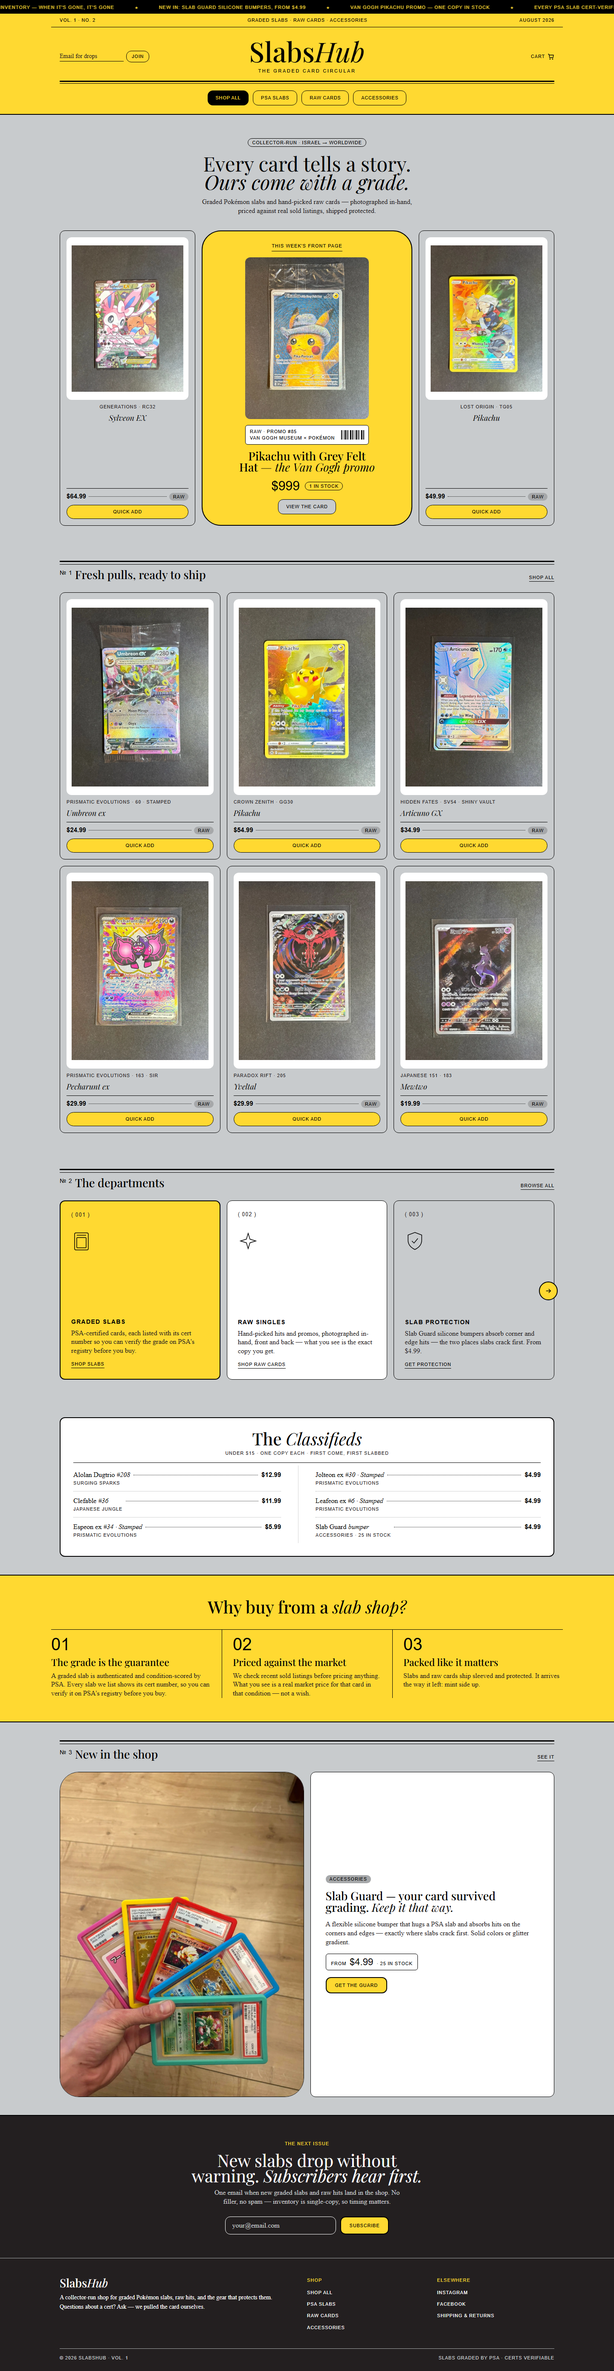
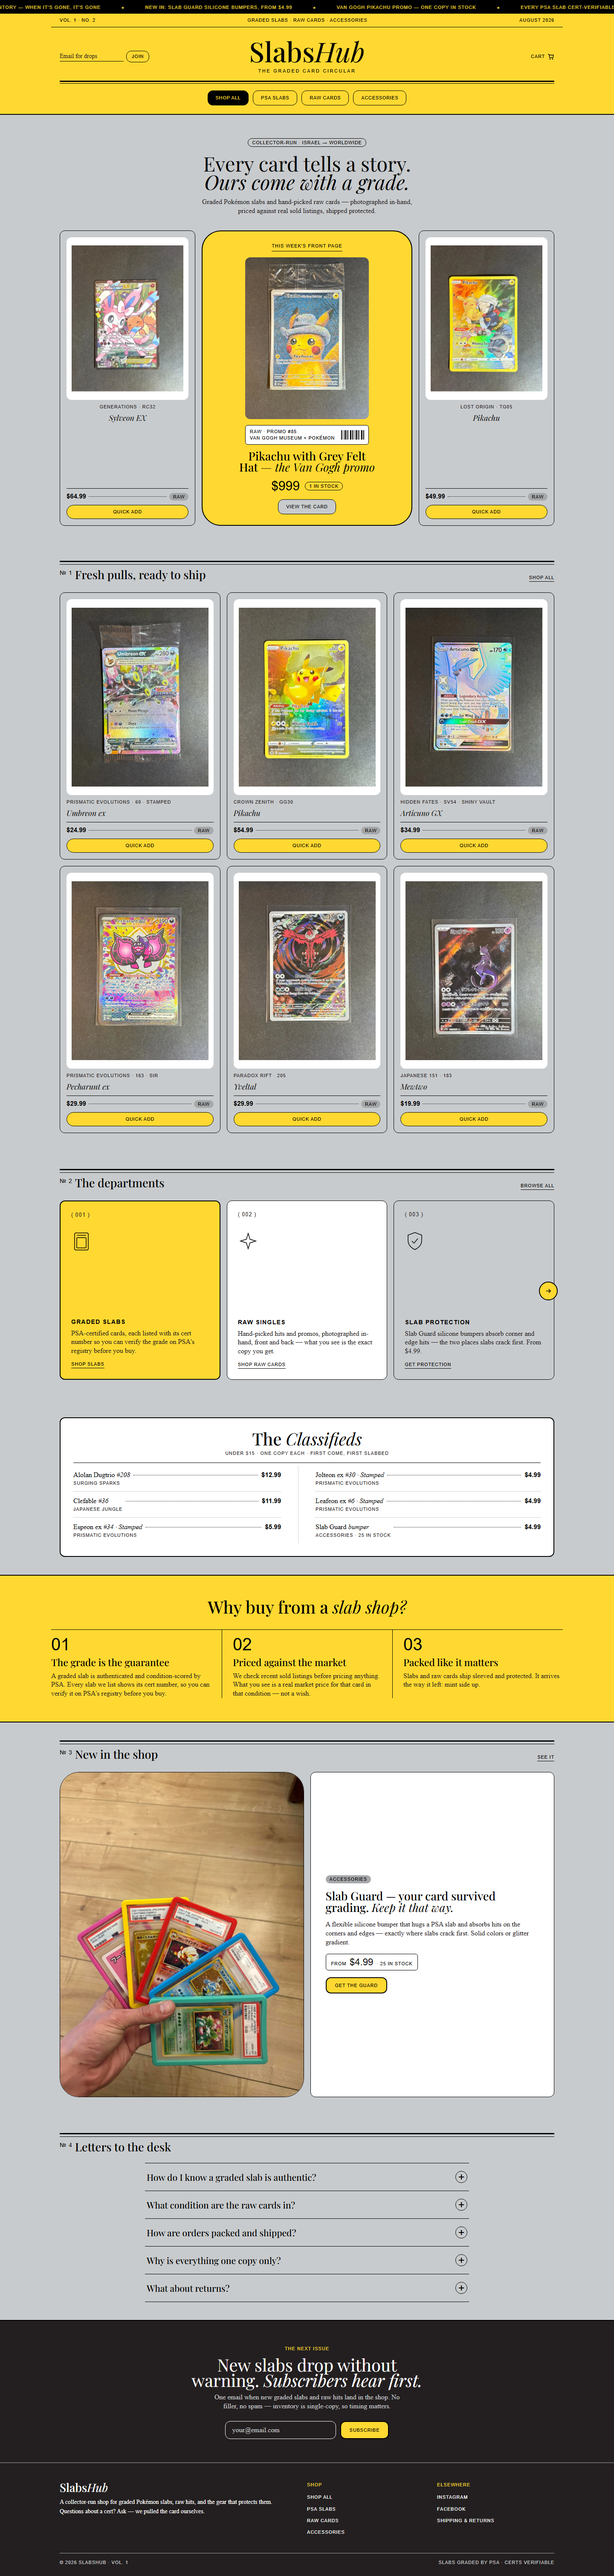
Comics v1.1: sticky nav, card tilt effect, Letters to the Desk FAQ, back-to-top, grid reveal

diff --git a/design/2026-08-05-lepuzz-redesign/slabshub-lepuzz-home.html b/design/2026-08-05-lepuzz-redesign/slabshub-lepuzz-home.html
@@ -74,6 +74,119 @@
 
   .wrap { max-width: var(--page-max-width); margin: 0 auto; padding: 0 20px; }
 
+  /* ---------- Sticky nav ---------- */
+  .sticky-nav {
+    position: fixed;
+    top: 0; left: 0; right: 0;
+    background: var(--color-honeycomb-yellow);
+    border-bottom: 2px solid var(--color-carbon-black);
+    display: flex;
+    align-items: center;
+    justify-content: space-between;
+    gap: 15px;
+    padding: 9px 20px;
+    z-index: 50;
+    transform: translateY(-110%);
+    transition: transform 0.25s ease;
+  }
+  .sticky-nav.show { transform: translateY(0); }
+  @media (prefers-reduced-motion: reduce) { .sticky-nav { transition: none; } }
+  .sticky-nav .s-logo { font-family: var(--font-display); font-weight: 500; font-size: 22px; line-height: 1; }
+  .sticky-nav .s-logo em { font-style: italic; font-weight: 400; }
+  .sticky-nav .s-links { display: flex; gap: 8px; flex-wrap: wrap; justify-content: center; }
+  .sticky-nav .s-links a {
+    font-family: var(--font-ui);
+    font-size: var(--text-caption);
+    letter-spacing: var(--tracking-nav);
+    text-transform: uppercase;
+    border: 1px solid var(--color-carbon-black);
+    border-radius: var(--radius-card);
+    padding: 6px 12px;
+    transition: background 0.15s ease, color 0.15s ease;
+  }
+  .sticky-nav .s-links a:hover { background: var(--color-carbon-black); color: var(--color-honeycomb-yellow); }
+  @media (max-width: 700px) { .sticky-nav .s-links a:nth-child(n+3) { display: none; } }
+
+  /* ---------- Back to top ---------- */
+  .to-top {
+    position: fixed;
+    right: 18px; bottom: 18px;
+    width: 48px; height: 48px;
+    border-radius: 50%;
+    background: var(--color-honeycomb-yellow);
+    border: 2px solid var(--color-carbon-black);
+    display: flex; align-items: center; justify-content: center;
+    cursor: pointer;
+    z-index: 49;
+    opacity: 0;
+    pointer-events: none;
+    transition: opacity 0.25s ease, background 0.15s ease;
+  }
+  .to-top.show { opacity: 1; pointer-events: auto; }
+  .to-top svg { width: 18px; height: 18px; stroke: var(--color-carbon-black); fill: none; stroke-width: 2; }
+  .to-top:hover { background: var(--color-carbon-black); }
+  .to-top:hover svg { stroke: var(--color-honeycomb-yellow); }
+
+  /* ---------- Card tilt (hover-capable devices only) ---------- */
+  @media (hover: hover) and (prefers-reduced-motion: no-preference) {
+    .card .img-box { perspective: 600px; }
+    .card .img-box img { will-change: transform; }
+  }
+
+  /* ---------- Scroll reveal ---------- */
+  .reveal { opacity: 0; transform: translateY(40px); transition: opacity 0.5s ease, transform 0.5s ease; }
+  .reveal.in { opacity: 1; transform: translateY(0); }
+  @media (prefers-reduced-motion: reduce) {
+    .reveal { opacity: 1; transform: none; transition: none; }
+  }
+
+  /* ---------- Letters to the desk (FAQ) ---------- */
+  .letters { max-width: 760px; margin: 0 auto; }
+  .letters details {
+    border-top: 1px solid var(--color-carbon-black);
+  }
+  .letters details:last-child { border-bottom: 1px solid var(--color-carbon-black); }
+  .letters summary {
+    list-style: none;
+    cursor: pointer;
+    display: flex;
+    align-items: baseline;
+    justify-content: space-between;
+    gap: 15px;
+    padding: 18px 4px;
+  }
+  .letters summary::-webkit-details-marker { display: none; }
+  .letters summary h3 {
+    font-family: var(--font-display);
+    font-weight: 500;
+    font-size: 21px;
+    line-height: 1.05;
+  }
+  .letters summary .mark {
+    font-family: var(--font-ui);
+    font-weight: 100;
+    font-size: 26px;
+    line-height: 1;
+    flex: none;
+    width: 28px; height: 28px;
+    border: 1px solid var(--color-carbon-black);
+    border-radius: 50%;
+    display: flex; align-items: center; justify-content: center;
+    transition: background 0.15s ease, color 0.15s ease;
+  }
+  .letters summary:hover .mark { background: var(--color-carbon-black); color: var(--color-honeycomb-yellow); }
+  .letters details[open] summary .mark::before { content: "−"; }
+  .letters details:not([open]) summary .mark::before { content: "+"; }
+  .letters .answer {
+    padding: 0 40px 20px 4px;
+    font-family: var(--font-body);
+    font-size: var(--text-body);
+    line-height: 1.4;
+    color: var(--color-ink-black);
+  }
+  .letters .answer a { border-bottom: 1px solid var(--color-carbon-black); }
+  .letters .answer a:hover { background: var(--color-honeycomb-yellow); }
+
   /* ---------- Ticker ---------- */
   .ticker {
     background: var(--color-carbon-black);
@@ -762,6 +875,21 @@
 </head>
 <body>
 
+<!-- ================= STICKY NAV ================= -->
+<div class="sticky-nav" id="sticky-nav" aria-hidden="true">
+  <a class="s-logo" href="#top">Slabs<em>Hub</em></a>
+  <div class="s-links">
+    <a href="https://slabshub.com/collections/all">Shop All</a>
+    <a href="https://slabshub.com/products/slab-guard-silicone-bumper-for-psa-graded-slabs">Accessories</a>
+    <a href="https://slabshub.com/cart">Cart</a>
+  </div>
+</div>
+
+<!-- ================= BACK TO TOP ================= -->
+<button class="to-top" id="to-top" aria-label="Back to top">
+  <svg viewBox="0 0 24 24"><path d="M12 19V5"/><path d="M6 11l6-6 6 6"/></svg>
+</button>
+
 <!-- ================= TICKER ================= -->
 <div class="ticker" aria-hidden="true">
   <div class="ticker-track">
@@ -1078,6 +1206,37 @@
   </div>
 </section>
 
+<!-- ================= LETTERS TO THE DESK (FAQ) ================= -->
+<section>
+  <div class="wrap">
+    <div class="section-head">
+      <h2><span class="no">№ 4</span>Letters to the desk</h2>
+    </div>
+    <div class="letters">
+      <details>
+        <summary><h3>How do I know a graded slab is authentic?</h3><span class="mark" aria-hidden="true"></span></summary>
+        <p class="answer">Every PSA slab we list shows its certification number. Punch it into PSA's public cert verification and you'll see the exact card, grade, and label — before you spend a shekel.</p>
+      </details>
+      <details>
+        <summary><h3>What condition are the raw cards in?</h3><span class="mark" aria-hidden="true"></span></summary>
+        <p class="answer">Every raw card is photographed in-hand, front and back — the photo in the listing is the exact copy you receive, not a stock image. If you want extra photos of a specific corner or edge, just ask.</p>
+      </details>
+      <details>
+        <summary><h3>How are orders packed and shipped?</h3><span class="mark" aria-hidden="true"></span></summary>
+        <p class="answer">Cards ship sleeved and protected, slabs padded. We're collectors — your order is packed the way we'd want our own cards to arrive.</p>
+      </details>
+      <details>
+        <summary><h3>Why is everything one copy only?</h3><span class="mark" aria-hidden="true"></span></summary>
+        <p class="answer">We're a curated shop, not a warehouse. Each listing is a single card we picked, photographed, and priced against recent sold listings. When it sells, it's gone — that's what the email list is for.</p>
+      </details>
+      <details>
+        <summary><h3>What about returns?</h3><span class="mark" aria-hidden="true"></span></summary>
+        <p class="answer">See our <a href="https://slabshub.com/policies/refund-policy">shipping &amp; returns policy</a> for the full details.</p>
+      </details>
+    </div>
+  </div>
+</section>
+
 <!-- ================= SUBSCRIBE ================= -->
 <div class="subscribe">
   <div class="band-inner">
@@ -1121,6 +1280,67 @@
 </footer>
 
 <script>
+  // Sticky nav + back-to-top — appear after scrolling past the masthead
+  (function () {
+    var masthead = document.querySelector('.masthead');
+    var sticky = document.getElementById('sticky-nav');
+    var toTop = document.getElementById('to-top');
+    if (masthead && 'IntersectionObserver' in window) {
+      var io = new IntersectionObserver(function (entries) {
+        var past = !entries[0].isIntersecting;
+        sticky.classList.toggle('show', past);
+        sticky.setAttribute('aria-hidden', past ? 'false' : 'true');
+        toTop.classList.toggle('show', past);
+      }, { threshold: 0 });
+      io.observe(masthead);
+    }
+    function goTop(e) { e.preventDefault(); window.scrollTo({ top: 0, behavior: 'smooth' }); }
+    toTop.addEventListener('click', goTop);
+    sticky.querySelector('.s-logo').addEventListener('click', goTop);
+  })();
+
+  // Card tilt — product images follow the cursor (hover devices, motion allowed)
+  (function () {
+    var hoverable = window.matchMedia('(hover: hover)').matches;
+    var motionOK = !window.matchMedia('(prefers-reduced-motion: reduce)').matches;
+    if (!hoverable || !motionOK) return;
+    document.querySelectorAll('.card .img-box').forEach(function (box) {
+      var img = box.querySelector('img');
+      if (!img) return;
+      box.addEventListener('mousemove', function (e) {
+        var r = box.getBoundingClientRect();
+        var x = (e.clientX - r.left) / r.width - 0.5;
+        var y = (e.clientY - r.top) / r.height - 0.5;
+        img.style.transform = 'rotateY(' + (x * 10) + 'deg) rotateX(' + (-y * 10) + 'deg) scale(1.04)';
+      });
+      box.addEventListener('mouseleave', function () {
+        img.style.transform = '';
+      });
+    });
+  })();
+
+  // Staggered reveal for product grid cards
+  (function () {
+    var cards = Array.prototype.slice.call(document.querySelectorAll('.grid-3 .card'));
+    cards.forEach(function (c) { c.classList.add('reveal'); });
+    if (!('IntersectionObserver' in window)) {
+      cards.forEach(function (c) { c.classList.add('in'); });
+      return;
+    }
+    var io = new IntersectionObserver(function (entries) {
+      entries.forEach(function (entry) {
+        if (entry.isIntersecting) {
+          var el = entry.target;
+          var idx = cards.indexOf(el);
+          el.style.transitionDelay = ((idx % 3) * 0.08) + 's';
+          el.classList.add('in');
+          io.unobserve(el);
+        }
+      });
+    }, { threshold: 0.15 });
+    cards.forEach(function (c) { io.observe(c); });
+  })();
+
   // Departments carousel — scroll-snap track + arrow (wraps), keyboard arrows, staggered reveal
   (function () {
     var track = document.getElementById('dept-track');
